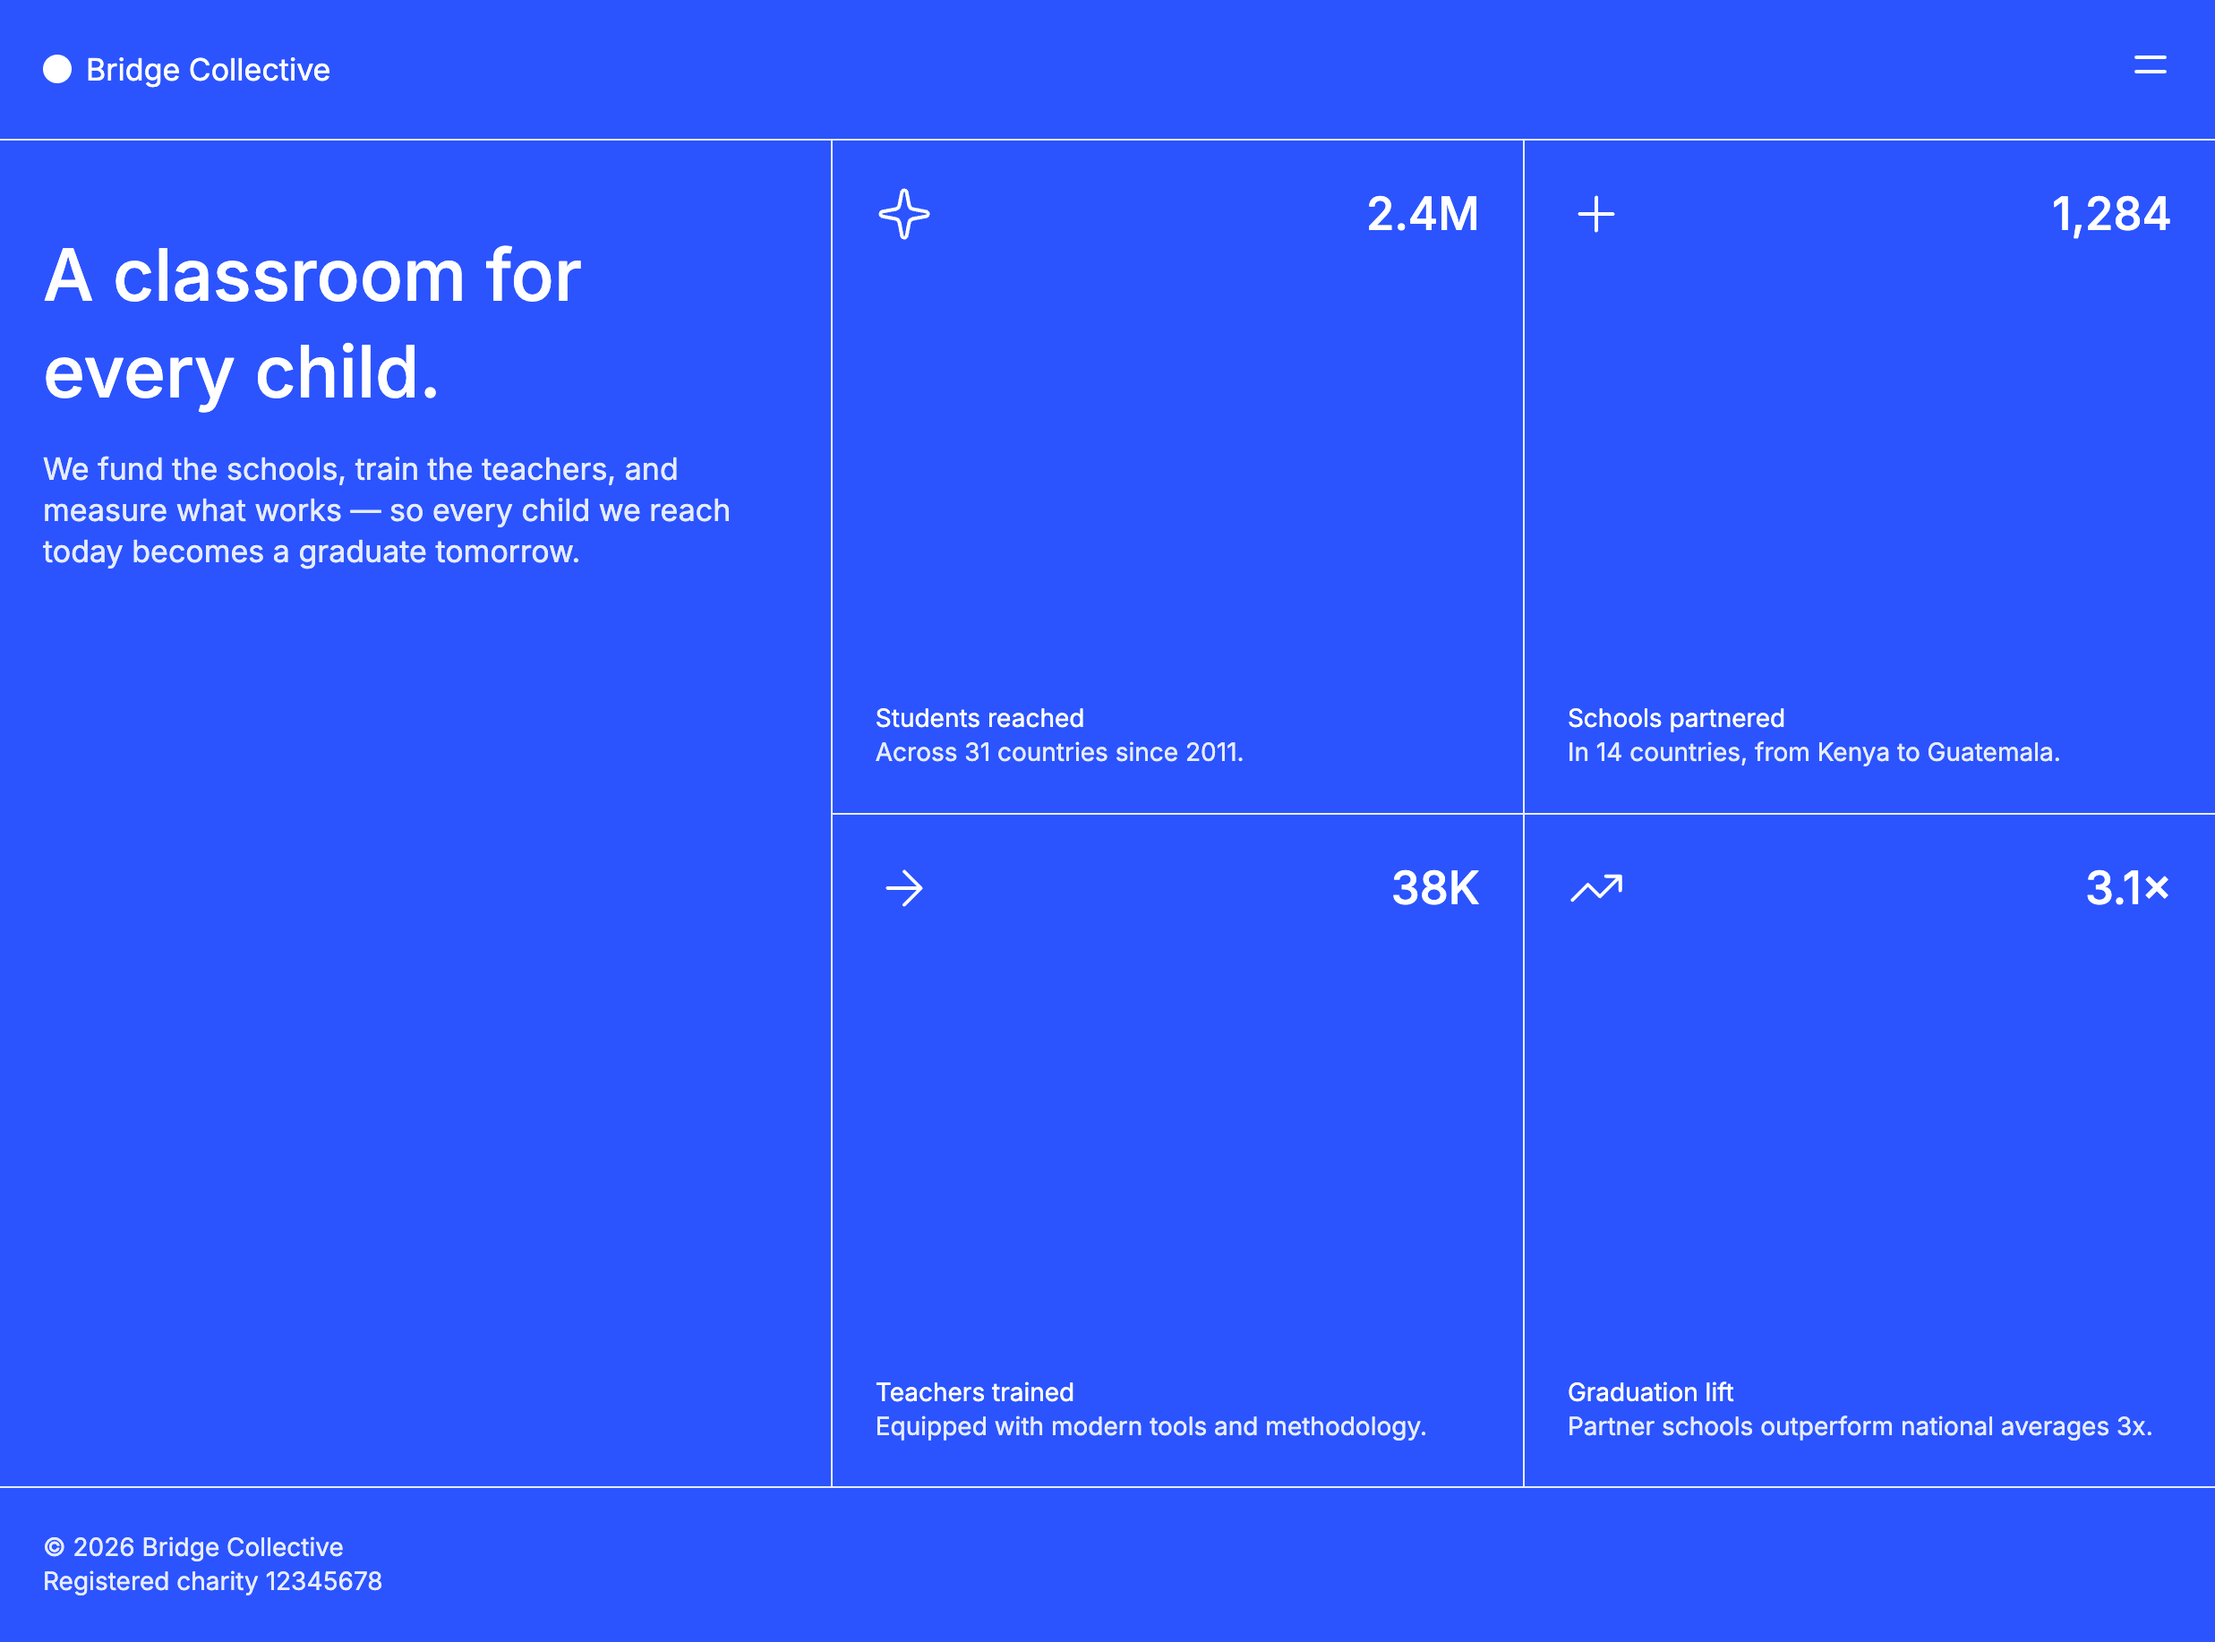
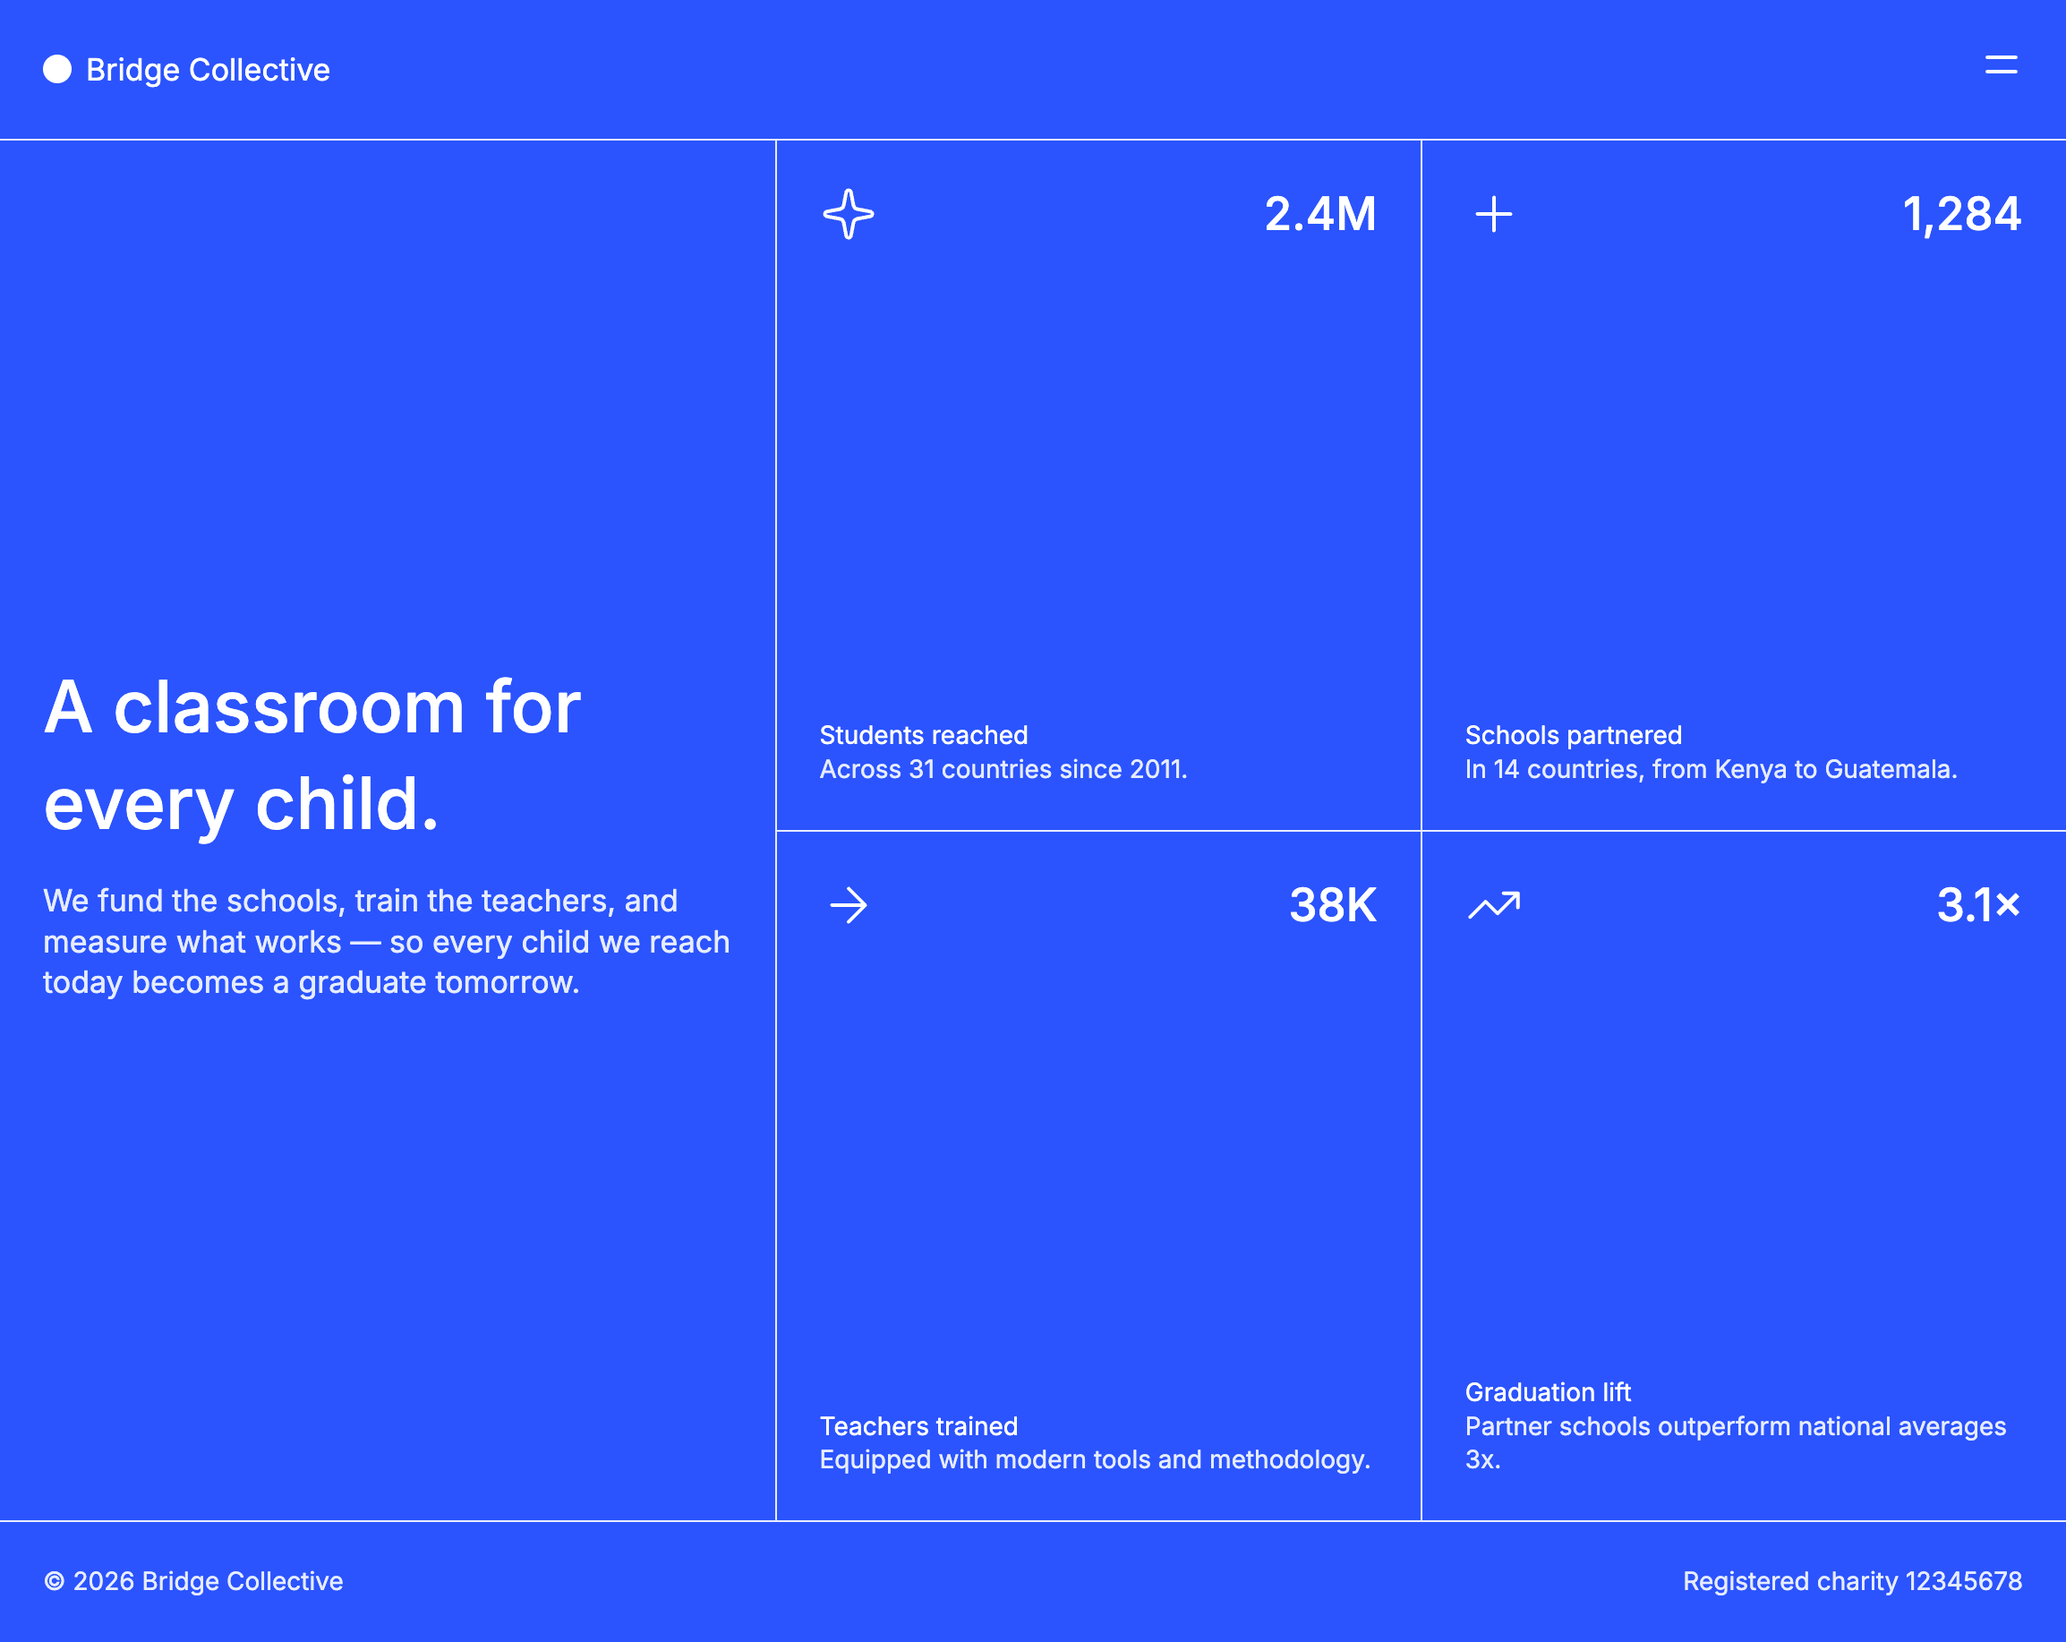
feat: Update README with GitHub repository link; enhance footer styles and add hero section

diff --git a/assets/styles/styles.css b/assets/styles/styles.css
@@ -175,6 +175,13 @@ footer {
     display: grid;
     grid-template-columns: 1.2fr 2fr;
 
+    .hero {
+      display: flex;
+      flex-direction: column;
+      justify-content: center;
+      align-items: flex-start;
+    }
+
     .feature-cards {
       display: grid;
       grid-template-columns: repeat(2, 1fr);

diff --git a/README.md b/README.md
@@ -32,7 +32,7 @@ Build a responsive charity landing page that presents Bridge Collective's missio
 
 ### Links
 
-- Solution URL: _Add the URL to your solution_
+- Solution URL: [GitHub Repository](http://github.com/Robertron624/fm-grid-landing-page)
 - Live Site URL: _Add the URL to your live site_
 
 ## My process 
